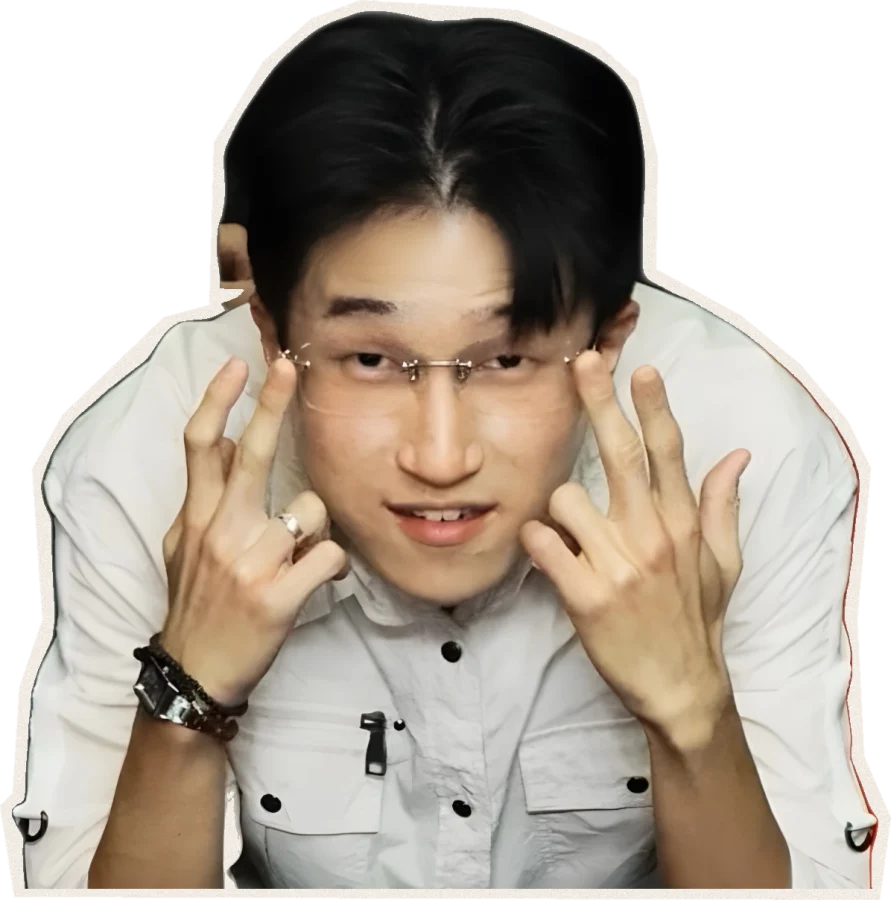
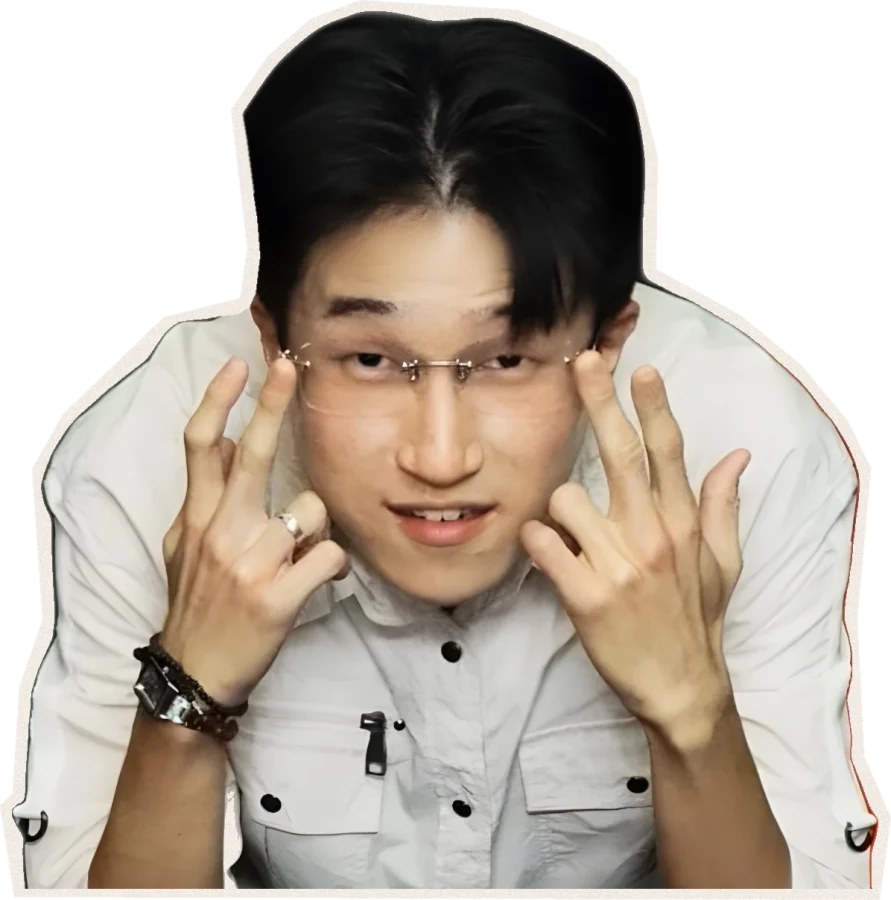
Artists: clean up 김유석 cutout (remove stray fingers by the ear)
Claude-Session: https://claude.ai/code/session_015zQpSkvZ78uAkqzBCZ1kuX

Changed region(s): [[0.2121, 0.1244, 0.303, 0.3733]]

diff --git a/index.html b/index.html
@@ -14,7 +14,7 @@
 <meta property="og:locale" content="ko_KR">
 <meta property="og:title" content="RAP-IN 26-2 정기공연 SAGGING 2026">
 <meta property="og:description" content="12월 3일(목) 19:00 경희대 국제캠퍼스 학생회관 소극장. 셋리스트는 11/27(금) 22:00 공개">
-<meta property="og:image" content="https://sagging2026.vercel.app/assets/img/og/og-image.jpg?v=11231745">
+<meta property="og:image" content="https://sagging2026.vercel.app/assets/img/og/og-image.jpg?v=11231747">
 <meta property="og:image:width" content="1200">
 <meta property="og:image:height" content="630">
 <meta property="og:image:alt" content="SAGGING 2026, 12.03 목 19:00 학생회관 소극장">
@@ -23,16 +23,16 @@
 <meta name="twitter:card" content="summary_large_image">
 <meta name="twitter:title" content="RAP-IN 26-2 정기공연 SAGGING 2026">
 <meta name="twitter:description" content="12월 3일(목) 19:00 경희대 국제캠퍼스 학생회관 소극장. 셋리스트는 11/27(금) 22:00 공개">
-<meta name="twitter:image" content="https://sagging2026.vercel.app/assets/img/og/og-image.jpg?v=11231745">
+<meta name="twitter:image" content="https://sagging2026.vercel.app/assets/img/og/og-image.jpg?v=11231747">
 
 <link rel="icon" href="assets/img/favicon.svg" type="image/svg+xml">
 <link rel="preload" href="assets/fonts/PretendardVariable.woff2" as="font" type="font/woff2" crossorigin>
 <link rel="preload" href="assets/audio/bgm.mp3" as="audio" type="audio/mpeg">
-<link rel="stylesheet" href="assets/css/base.css?v=11231745">
-<link rel="stylesheet" href="assets/css/layout.css?v=11231745">
-<link rel="stylesheet" href="assets/css/poster.css?v=11231745">
-<link rel="stylesheet" href="assets/css/program.css?v=11231745">
-<link rel="stylesheet" href="assets/css/panels.css?v=11231745">
+<link rel="stylesheet" href="assets/css/base.css?v=11231747">
+<link rel="stylesheet" href="assets/css/layout.css?v=11231747">
+<link rel="stylesheet" href="assets/css/poster.css?v=11231747">
+<link rel="stylesheet" href="assets/css/program.css?v=11231747">
+<link rel="stylesheet" href="assets/css/panels.css?v=11231747">
 <script>document.documentElement.classList.replace("no-js","js");</script>
 </head>
 <body>
@@ -172,6 +172,6 @@
 <!-- GSAP은 외부 CDN 대신 저장소 안에 같이 둬요 (공연장 와이파이가 불안정해도 동작하게) -->
 <script src="assets/vendor/gsap.min.js" defer></script>
 <script src="assets/vendor/ScrollTrigger.min.js" defer></script>
-<script type="module" src="assets/js/main.js?v=11231745"></script>
+<script type="module" src="assets/js/main.js?v=11231747"></script>
 </body>
 </html>

diff --git a/assets/js/main.js b/assets/js/main.js
@@ -1,13 +1,13 @@
 // 진입점: 데이터 불러오기 → 언어 적용 → 순서표 그리기 → 포스터 모션 시작
-import { loadJSON } from "./data.js?v=11231745";
+import { loadJSON } from "./data.js?v=11231747";
 import { initI18n, t, getLang, onLangChange } from "./i18n.js";
-import { renderInfo } from "./sections/info.js?v=11231745";
-import { renderArtists } from "./sections/artists.js?v=11231745";
-import { renderProgram } from "./sections/program.js?v=11231745";
-import { initPoster } from "./motion/poster.js?v=11231745";
-import { initPanels } from "./sections/panels.js?v=11231745";
-import { initBgm } from "./bgm.js?v=11231745";
-import { initBeat } from "./motion/beat.js?v=11231745";
+import { renderInfo } from "./sections/info.js?v=11231747";
+import { renderArtists } from "./sections/artists.js?v=11231747";
+import { renderProgram } from "./sections/program.js?v=11231747";
+import { initPoster } from "./motion/poster.js?v=11231747";
+import { initPanels } from "./sections/panels.js?v=11231747";
+import { initBgm } from "./bgm.js?v=11231747";
+import { initBeat } from "./motion/beat.js?v=11231747";
 
 const reduced = matchMedia("(prefers-reduced-motion: reduce)").matches;
 if (reduced) document.documentElement.classList.add("reduced");
